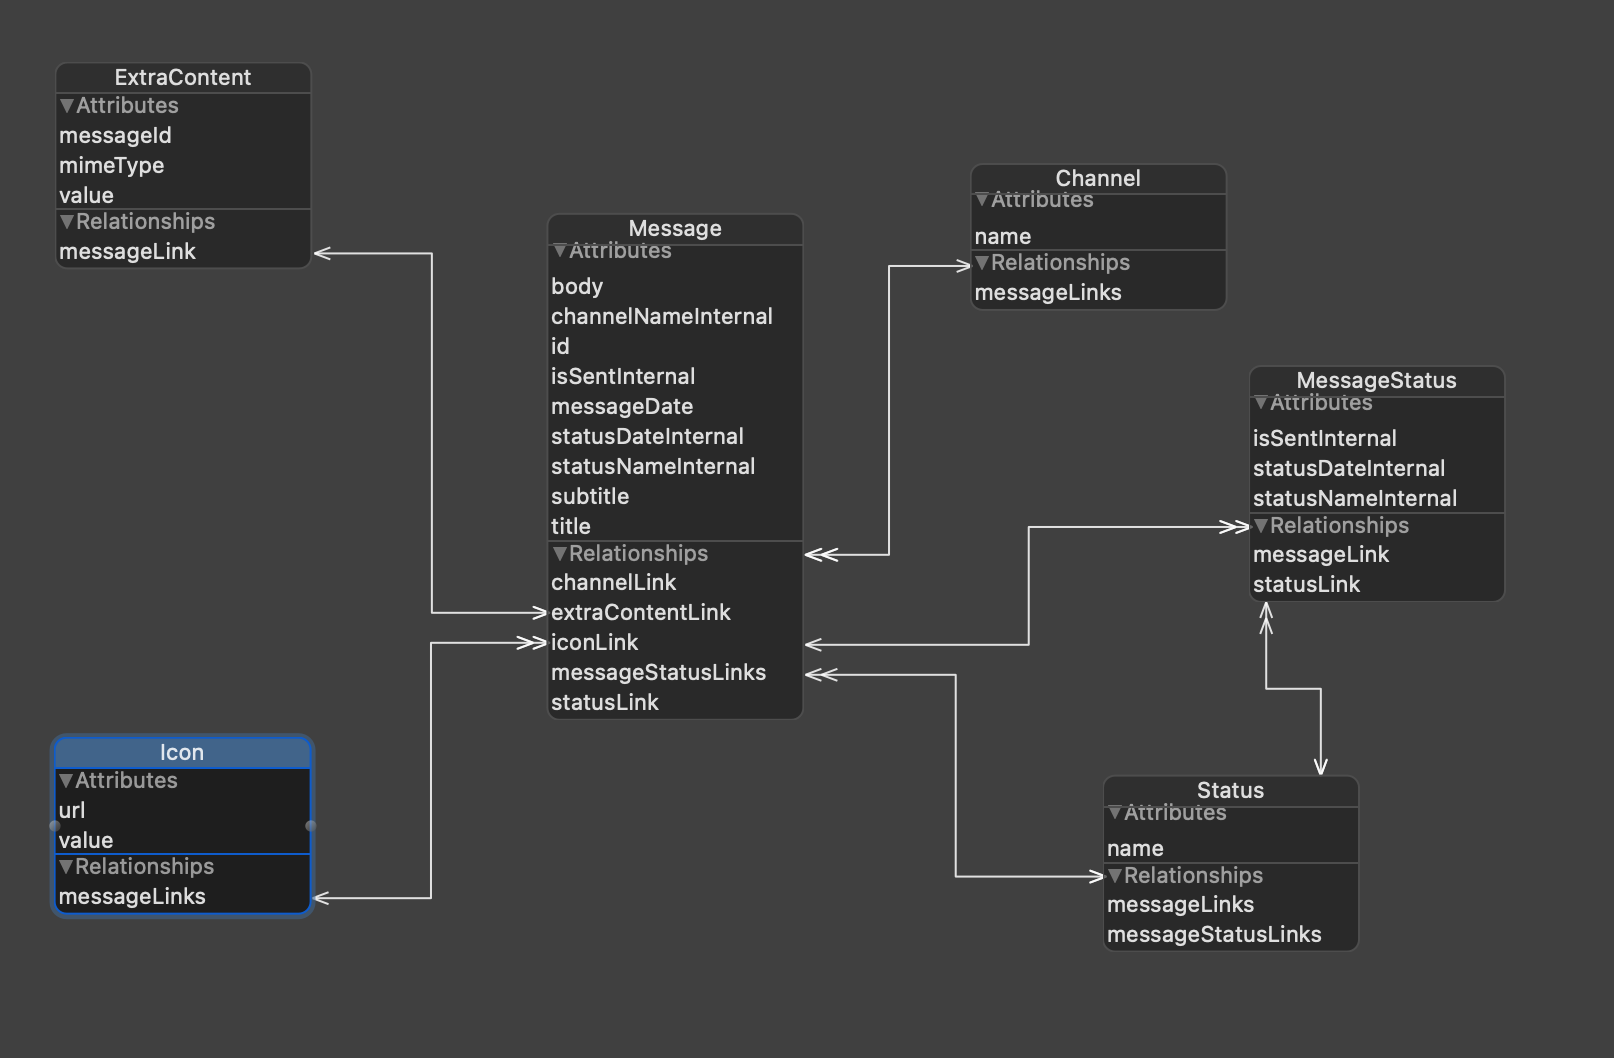
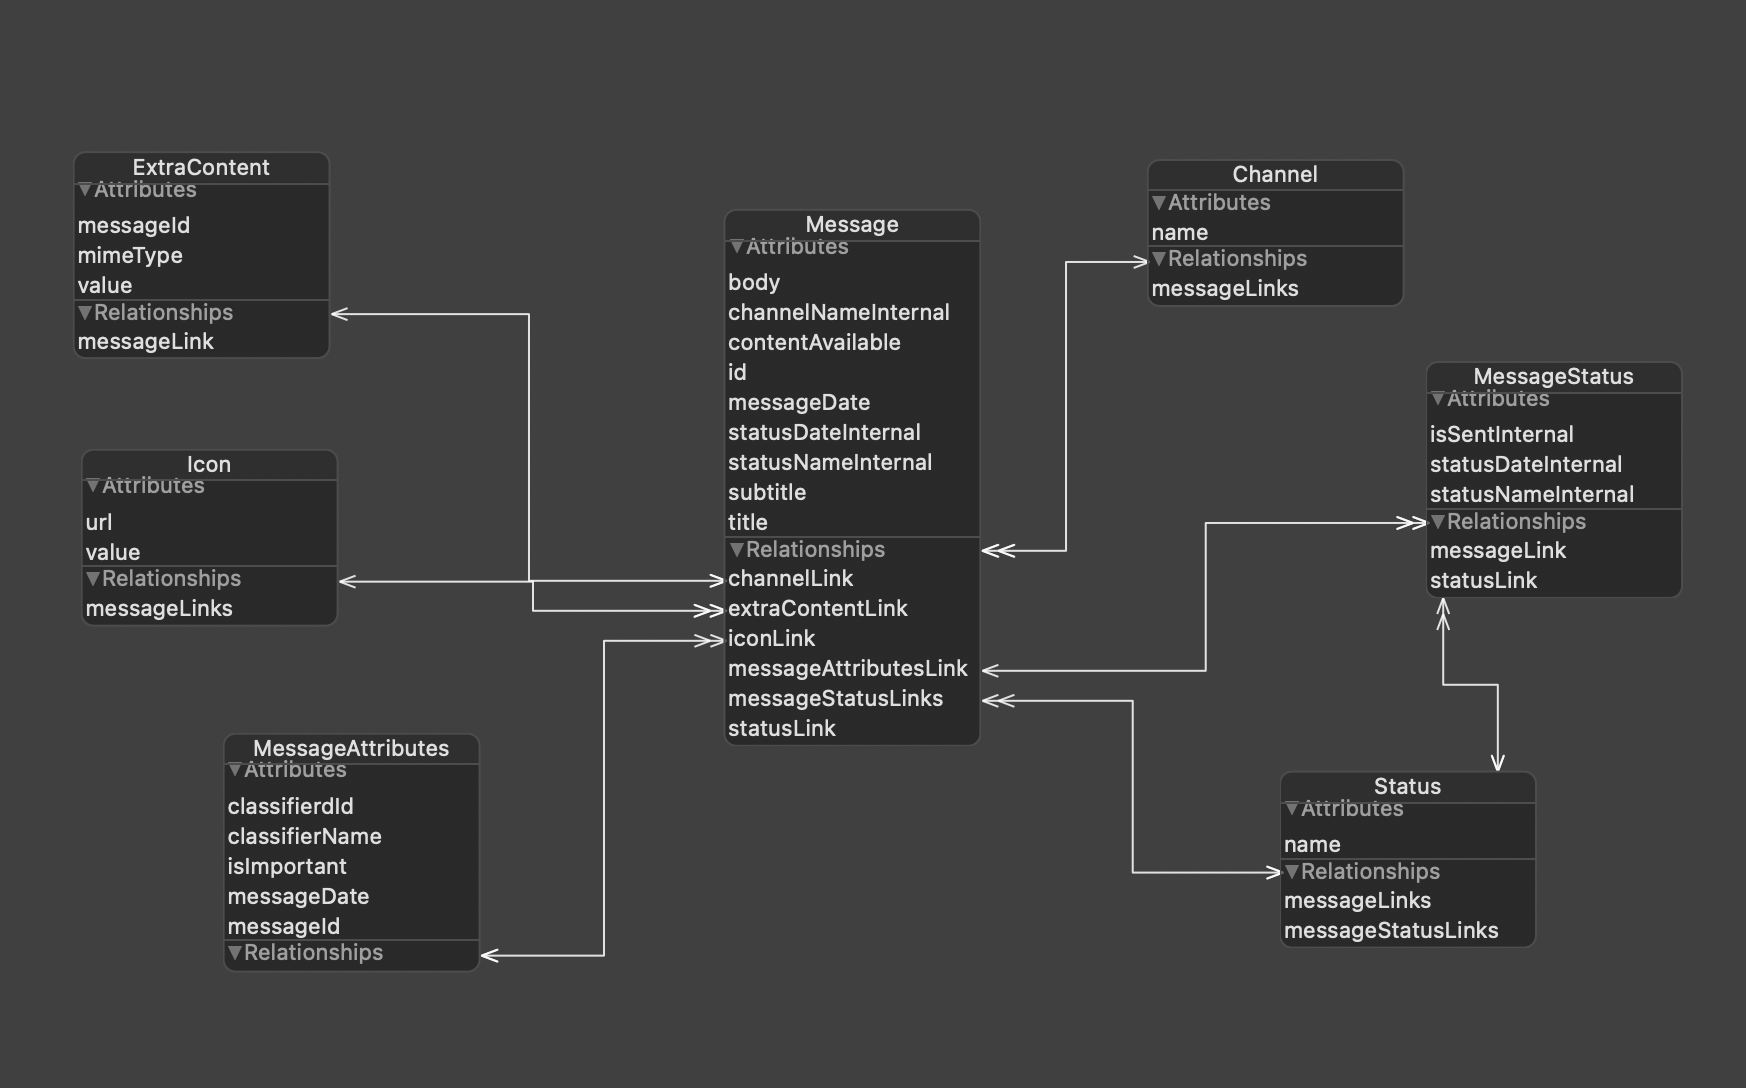
Update readme.md

diff --git a/readme.md b/readme.md
@@ -245,7 +245,7 @@ https://github.com/wingssoft/WingsPushSdkiOS_SPM.git
 
     #### Примечание: оба метода могут принимать параметр `with defaultAddress` - это "<deviceId>.<clientId>". Если приложение не выполнило метод subscribe, но при этом получает уведомления, то у приложения будет возможность отправить статус о доставке уведомления с этим адресом по умолчанию. Если приложение выполнило метод subscribe, то этот параметр будет игнорироваться.
 
-    * 	
+    *     
 
     #### Примеры:
     * Если вы используете didReceiveRemoteNotification для получения уведомлений (не рекомендуется для отправки статусов обычных уведомлений и рекомендуется для отправки статусов silent пушей)
@@ -391,37 +391,53 @@ https://github.com/wingssoft/WingsPushSdkiOS_SPM.git
 
 1. Модель локального хранилища
 
-	![storage model](images/storage-model.png)
+    ![storage model](images/storage-model.png)
+    
+    * Получение атрибутов сообщения
+    ```
+    message.messageAttributesLink?.classifierdId
+    message.messageAttributesLink?.messageDate
+    message.messageAttributesLink?.messageId
+    ```
 
 1. Удаление сообщений из локального хранилища
-	
-	* Все сообщения
-	```
-	sdk.removeAllMessages()
-	```
+    
+    * Все сообщения
+    ```
+    sdk.removeAllMessages()
+    ```
 
-	* По идентификатору
-	```
-	sdk.removeMessage(by: "someId")
-	```
+    * По идентификатору
+    ```
+    sdk.removeMessage(by: "someId")
+    ```
 
-	* По условию
-	```
-	sdk.removeMessage(predicate: NSPredicate(format: "title == %@", filter))
-	```
+    * По условию
+    ```
+    sdk.removeMessage(predicate: NSPredicate(format: "title == %@", filter))
+    ```
 
 1. Получение уведомлений
 
-	* По идентификатору
-	```
-	sdk.getMessageById(id: "someId") { (messageById) in
-	    if let message = messageById {
-		...
-	    }
-	}
-	```
+    * По идентификатору
+    ```
+    sdk.getMessageById(id: "someId") { (messageById) in
+        if let message = messageById {
+        ...
+        }
+    }
+    ```
+    
+    * По условию
+    ```
+    sdk.getMessageByPredicate(predicate: NSPredicate(format: "title == %@", filter)) { (messagesController) in
+        if let messages = messagesController {
+        ...
+        }
+    }
+    ```
 
-	* Получение объекта NSFetchedResultsController<Message>
-	```
-	sdk.getFetchedResultsController()
-	```
+    * Получение объекта NSFetchedResultsController<Message>
+    ```
+    sdk.getFetchedResultsController()
+    ```
